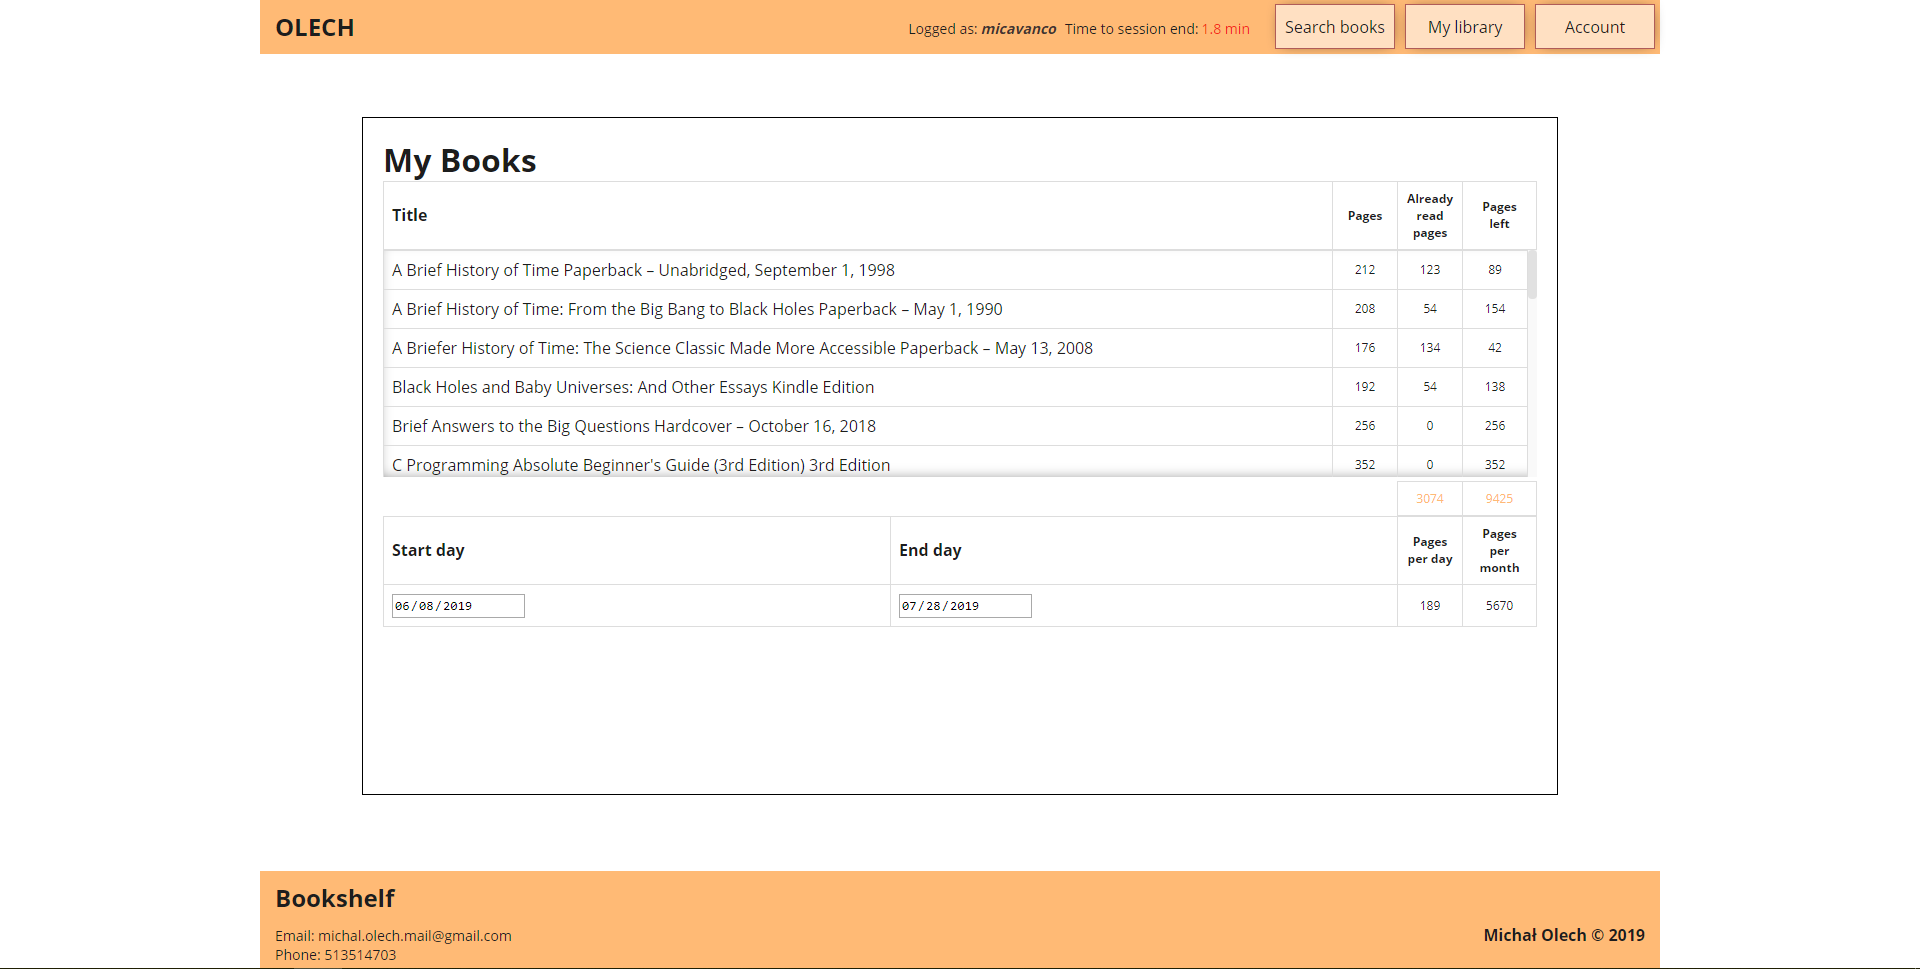
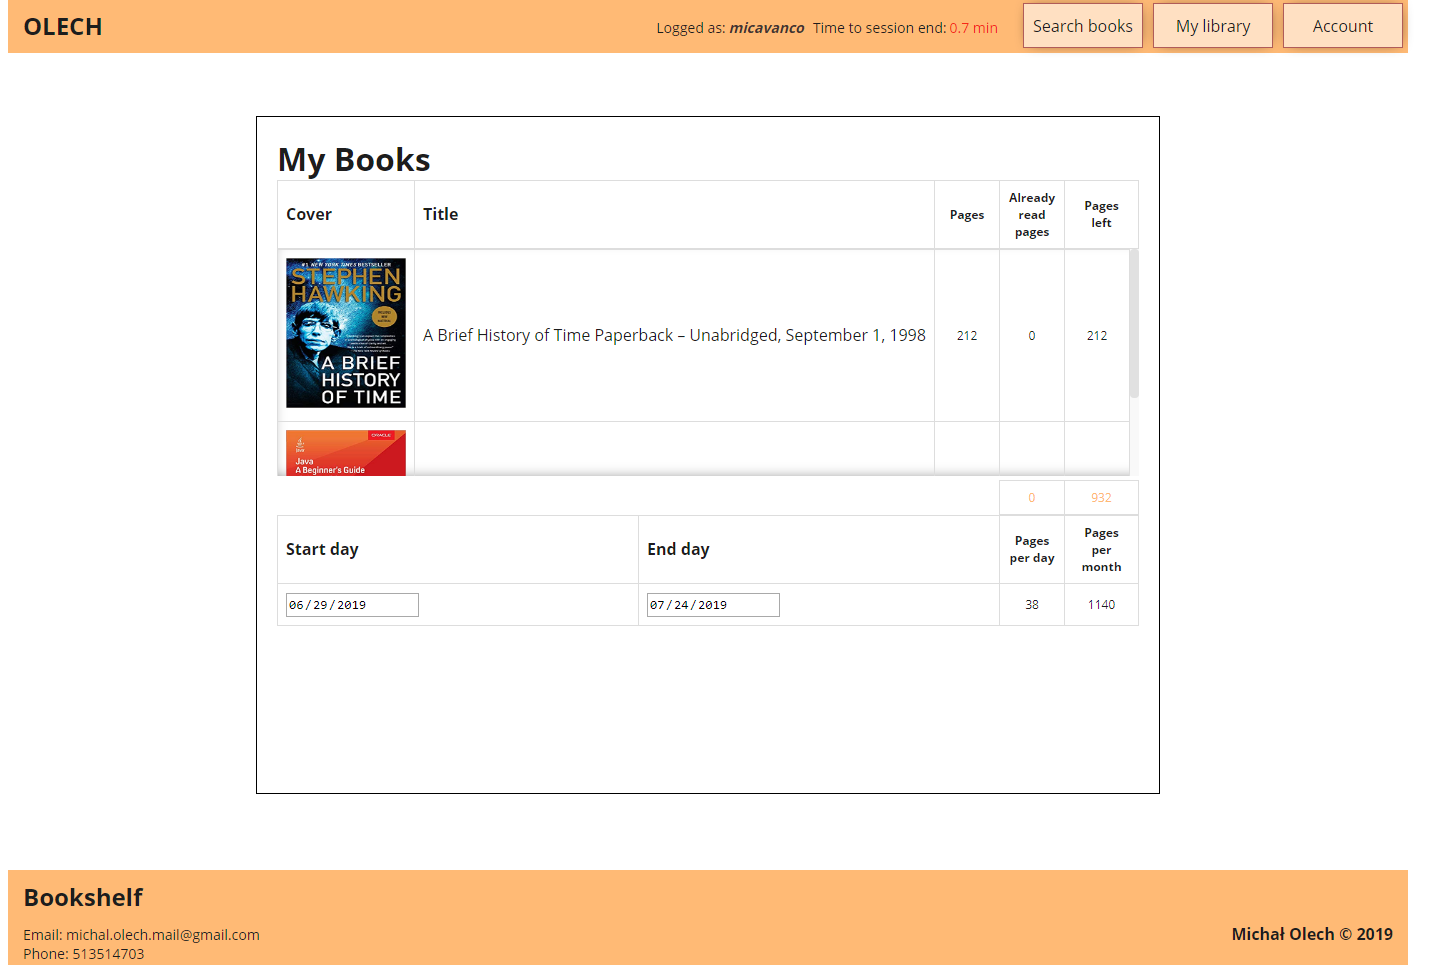
Added column in user library for books covers and new api endpoint to get information about amount of users books and display it on user account page

diff --git a/frontend/src/app/login-page/login-page.component.ts b/frontend/src/app/login-page/login-page.component.ts
@@ -3,6 +3,7 @@ import { UserService } from "../user-service/user.service";
 import { FormBuilder, FormGroup, Validators } from "@angular/forms";
 import { Router } from "@angular/router";
 import { UserBoxComponent } from "../user-box/user-box.component";
+import { BookService } from "../book-service/book.service";
 
 @Component({
   selector: 'app-login-page',
@@ -15,7 +16,7 @@ export class LoginPageComponent {
   error: boolean;
   isLoading: boolean;
 
-  constructor(private userService: UserService, private fb:FormBuilder, private router: Router) {
+  constructor(private userService: UserService, private fb:FormBuilder, private router: Router, private bookService: BookService) {
     this.error = false;
     this.isLoading = false;
     this.form = this.fb.group({
@@ -39,6 +40,7 @@ export class LoginPageComponent {
           this.error = false;
           this.isLoading = false;
           this.router.navigateByUrl('/');
+          this.bookService.getUserAmountOfUserBooks().subscribe(data => localStorage.setItem("amount_books", data));
         });
     }
   }

diff --git a/frontend/src/app/library-page/library-page.component.html b/frontend/src/app/library-page/library-page.component.html
@@ -9,6 +9,7 @@
     <table>
       <thead>
         <tr>
+          <th style="width: 137px">Cover</th>
           <th>Title</th>
           <th class="pages-column">Pages</th>
           <th class="pages-column">Already read pages</th>
@@ -21,6 +22,7 @@
       <table>
 
           <tr *ngFor="let book of books; let i = index">
+            <td><img [src]="book.cover" /></td>
             <td>{{book.title}}</td>
             <td class="pages-column">{{book.pages}}</td>
             <td id="{{i}}" class="pages-column page-click" (click)="onAddPages($event)">

diff --git a/frontend/src/app/account-page/account-page.component.ts b/frontend/src/app/account-page/account-page.component.ts
@@ -11,10 +11,12 @@ import * as jwt_decode from "jwt-decode";
 export class AccountPageComponent implements OnInit {
 
   username: string;
+  amount_books: string;
 
 
   constructor(private userService: UserService, private router: Router) {
     this.username = localStorage.getItem('username');
+    this.amount_books = localStorage.getItem('amount_books');
     if(!userService.isLoggedIn())
       this.router.navigate(['/login']);
   }

diff --git a/frontend/src/app/account-page/account-page.component.html b/frontend/src/app/account-page/account-page.component.html
@@ -1,7 +1,7 @@
 <div class="account-box">
   <h1>Account details</h1>
   <div class="details">Username: <span>{{username}}</span></div>
-  <div class="details">Amount of books: <span>0</span></div>
+  <div class="details">Amount of books: <span>{{amount_books}}</span></div>
   <button (click)="onLogout()">Logout</button>
   <button (click)="onDeleteUser()" class="delete">Delete Account</button>
 </div>

diff --git a/frontend/src/app/book-service/book.service.ts b/frontend/src/app/book-service/book.service.ts
@@ -39,4 +39,10 @@ export class BookService {
   {
     return this.httpClient.post<IBook>(environment.baseUrl+'/v1/books/getBookDetails', url);
   }
+
+  getUserAmountOfUserBooks()
+  {
+    return this.httpClient.get<string>(environment.baseUrl+'/v1/books/user/amount?username='+localStorage.getItem('username')+
+      "&user_password="+jwt_decode(localStorage.getItem('id_token')).password);
+  }
 }

diff --git a/frontend/src/app/user-service/user.service.ts b/frontend/src/app/user-service/user.service.ts
@@ -64,6 +64,7 @@ export class UserService {
     localStorage.removeItem('id_token');
     localStorage.removeItem('username');
     localStorage.removeItem('expires_at');
+    localStorage.removeItem('amount_books');
   }
 
   public isLoggedIn()

diff --git a/frontend/src/app/library-page/library-page.component.scss b/frontend/src/app/library-page/library-page.component.scss
@@ -43,6 +43,11 @@ td, th {
   padding: 8px;
 }
 
+img{
+  width: 120px;
+  height: 150px;
+}
+
 .pages-column{
   width: 65px;
   font-size: 12px;

diff --git a/backend/src/main/java/com/micavanco/bookshelf/controller/BookController.java b/backend/src/main/java/com/micavanco/bookshelf/controller/BookController.java
@@ -2,9 +2,6 @@ package com.micavanco.bookshelf.controller;
 
 
 import com.micavanco.bookshelf.model.Book;
-import com.micavanco.bookshelf.model.User;
-import com.micavanco.bookshelf.repository.BookRepository;
-import com.micavanco.bookshelf.repository.UserRepository;
 import com.micavanco.bookshelf.service.BookService;
 import org.json.JSONObject;
 import org.springframework.beans.factory.annotation.Autowired;
@@ -198,6 +195,25 @@ public class BookController {
                 : new ResponseEntity<List<Book>>(HttpStatus.NO_CONTENT);
     }
 
+    @CrossOrigin(origins = "http://localhost:5000")
+    @PreAuthorize("hasAnyRole('USER', 'ADMIN')")
+    @RequestMapping(value = "/user/amount", method = RequestMethod.GET)
+    public ResponseEntity<Integer> getUserAmountOfBooks(@RequestParam(value = "username")String username,
+                                                   @RequestParam(value = "user_password")String user_password)
+    {
+        List<Book> books;
+        try {
+            books = bookService.getUserBooks(username, user_password);
+        }catch (Exception ex)
+        {
+            return new ResponseEntity<Integer>(HttpStatus.INTERNAL_SERVER_ERROR);
+        }
+
+        if(books == null)
+            return new ResponseEntity<Integer>(HttpStatus.NO_CONTENT);
+
+        return new ResponseEntity<Integer>(books.size(), HttpStatus.OK);
+    }
     private Book createBookfromJSON(JSONObject user_book)
     {
         user_book = user_book.getJSONObject("book");
